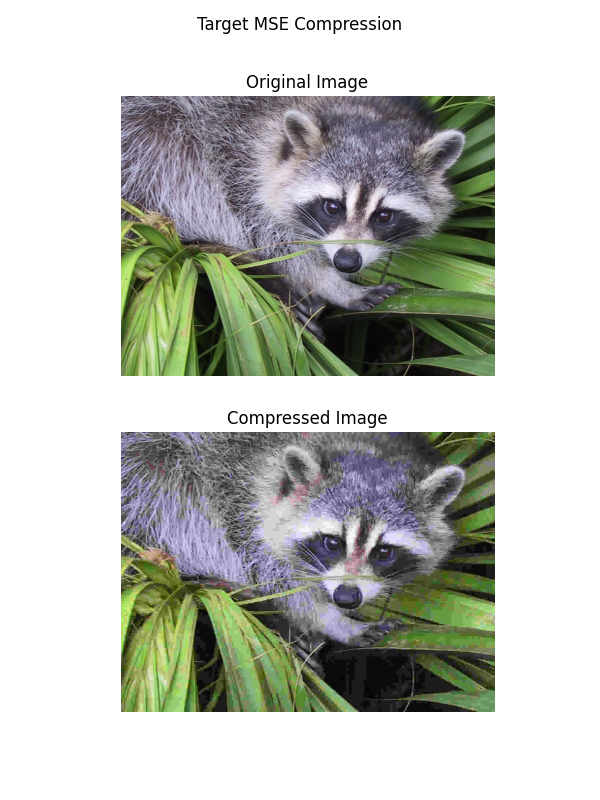
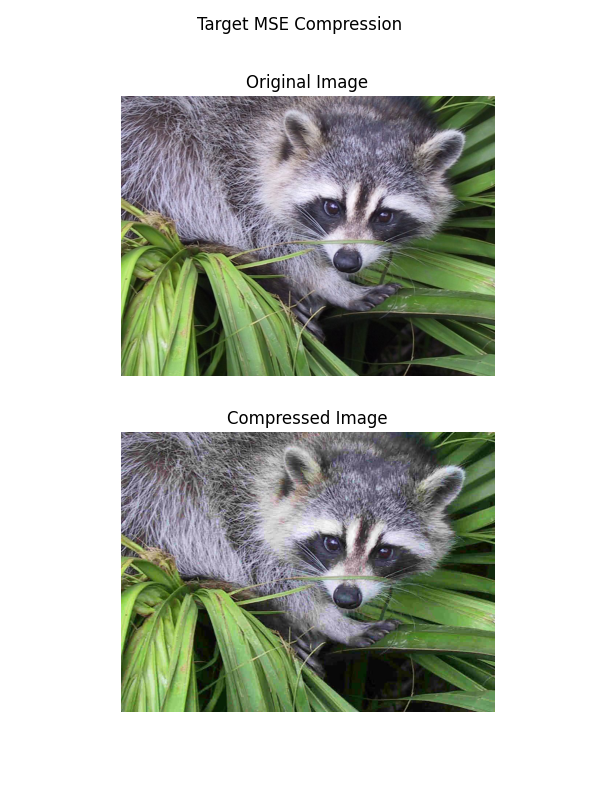
feat: fixed target mse algo, feat: added basic CLI

diff --git a/jpegzip/main.py b/jpegzip/main.py
@@ -1,16 +1,22 @@
+import argparse
 import logging
+from argparse import ArgumentParser
+from typing import Optional
 
+import numpy as np
 import scipy
 from skimage.metrics import mean_squared_error
 
 from jpegzip.compression.image_compression import ImageCompression
 from jpegzip.utils.plots import plot_compression
+from utils.file_system import load_image, save_image
 
 logger = logging.getLogger(__name__)
 
 
-def compress_raccoon() -> None:
-    image = scipy.datasets.face()
+def compress(image: Optional[np.ndarray] = None) -> np.ndarray:
+    if image is None:
+        image = scipy.datasets.face()
     compressed_image = ImageCompression.compress_rgb(image)
 
     plot_compression("RGB Image Compression", image, compressed_image)
@@ -18,12 +24,15 @@ def compress_raccoon() -> None:
     mse = mean_squared_error(image, compressed_image)
     logger.info(f"Mean Squared Error: {mse:.4f}")
 
+    return compressed_image
 
-def compress_raccoon_to_target_mse(target_mse: float | None = None) -> None:
+
+def compress_to_target_mse(target_mse: float | None = None, image: Optional[np.ndarray] = None) -> np.ndarray:
     if target_mse is None:
         raise ValueError("Target MSE must be specified and cannot be None. Please provide a valid value.")
 
-    image = scipy.datasets.face()
+    if image is None:
+        image = scipy.datasets.face()
     compressed_image = ImageCompression.compress_to_mse(image, target_mse=target_mse)
 
     plot_compression("Target MSE Compression", image, compressed_image)
@@ -31,11 +40,50 @@ def compress_raccoon_to_target_mse(target_mse: float | None = None) -> None:
     mse = mean_squared_error(image, compressed_image)
     logger.info(f" Target MSE: {target_mse:10.4f}, Obtained MSE: {mse:10.4f}")
 
+    return compressed_image
+
+
+def add_arguments(parser: ArgumentParser) -> ArgumentParser:
+    parser.add_argument("--load", type=str, help="Name of the image to load for compression from folder `input`.")
+
+    subparsers = parser.add_subparsers(dest="operation", help="Choose the compression operation.")
+
+    subparsers.add_parser("compress", help="Compress using the basic RGB compression.")
+    compress_to_target_mse_parser = subparsers.add_parser(
+        "compress-to-target-mse", help="Compress to a specified target MSE."
+    )
+    compress_to_target_mse_parser.add_argument(
+        "--target-mse", type=float, required=True, help="Target MSE for the compression."
+    )
+
+    return parser
+
 
 def main() -> None:
-    pass
+    parser = argparse.ArgumentParser(prog="JpegZIP", description="Image Compression CLI")
+    parser = add_arguments(parser)
+
+    args = parser.parse_args()
+
+    image = None
+    if args.load:
+        image = load_image(args.load)
+
+    compressed_image = None
+    if args.operation == "compress":
+        compressed_image = compress(image)
+    elif args.operation == "compress-to-target-mse":
+        compressed_image = compress_to_target_mse(args.target_mse, image)
+
+    image_name = None
+    if args.load:
+        image_name = f"{args.load.split('.')[0]}_compressed.{args.load.split('.')[1]}"
+    else:
+        image_name = "raccoon_compressed.png"
+
+    save_image(compressed_image, image_name)
 
 
 if __name__ == "__main__":
     logging.basicConfig(level=logging.INFO)
-    compress_raccoon_to_target_mse(300)
+    main()

diff --git a/jpegzip/compression/image_compression.py b/jpegzip/compression/image_compression.py
@@ -10,7 +10,8 @@ logger = logging.getLogger(__name__)
 
 class ImageCompression:
     MSE_TOLERANCE: float = 10.0
-    MAX_ITERATIONS: int = 15
+    MAX_ITERATIONS: int = 30
+    FACTOR_RATE: float = 0.5
 
     @staticmethod
     def compress_rgb(image: np.ndarray, q_factor: float = 1.0) -> np.ndarray:
@@ -59,9 +60,9 @@ class ImageCompression:
         cr_channel = image_ycbcr[:, :, 2] if image.ndim == 3 else None
 
         # fmt: off
-        y_channel_compressed = JPEGCompression.decode(JPEGCompression.encode(y_channel, q_method="luminance", q_factor=q_factor))
-        cb_channel_compressed = JPEGCompression.decode(JPEGCompression.encode(cb_channel, q_method="chroma", q_factor=q_factor)) if cb_channel is not None else None
-        cr_channel_compressed = JPEGCompression.decode(JPEGCompression.encode(cr_channel, q_method="chroma", q_factor=q_factor)) if cr_channel is not None else None
+        y_channel_compressed = JPEGCompression.decode(JPEGCompression.encode(y_channel, q_method="luminance", q_factor=q_factor), y_channel.shape)
+        cb_channel_compressed = JPEGCompression.decode(JPEGCompression.encode(cb_channel, q_method="chroma", q_factor=q_factor), cb_channel.shape) if cb_channel is not None else None
+        cr_channel_compressed = JPEGCompression.decode(JPEGCompression.encode(cr_channel, q_method="chroma", q_factor=q_factor), cr_channel.shape) if cr_channel is not None else None
         # fmt: on
 
         if image.ndim == 3:
@@ -111,8 +112,11 @@ class ImageCompression:
             compressed_image = ImageCompression.compress_rgb(image, q_factor=q_factor)
             mse = mean_squared_error(image, compressed_image)
 
-            logger.info(f" q_factor: {q_factor:10.4f}, mse: {mse:10.4f}")
-            q_factor: float = (q_factor * target_mse) / mse
+            logger.info(f" iteration: {iteration:2}, q_factor: {q_factor:10.4f}, mse: {mse:10.4f}")
+
+            q_factor_new: float = (q_factor * target_mse) / mse
+            step: float = q_factor_new - q_factor
+            q_factor = q_factor + step * ImageCompression.FACTOR_RATE
 
             if iteration > ImageCompression.MAX_ITERATIONS:
                 raise RuntimeError(

diff --git a/jpegzip/utils/file_system.py b/jpegzip/utils/file_system.py
@@ -1,0 +1,68 @@
+import logging
+import os
+
+import cv2 as cv
+import numpy as np
+
+logger = logging.getLogger(__name__)
+BASE_INPUT_DIR = os.path.join(os.getcwd(), "..", "input")
+BASE_OUTPUT_DIR = os.path.join(os.getcwd(), "..", "output")
+
+
+def load_image(name: str) -> np.ndarray:
+    """Load an image from `input` directory with the specified name.
+
+    Parameters
+    ----------
+    name : str
+        The name of the image file to load. The image file should be located
+        in the 'input' directory, relative to the current working directory.
+
+    Returns
+    -------
+    np.ndarray
+        The loaded image as a NumPy array in color format (RGB).
+
+    Raises
+    ------
+    Exception
+        If the image cannot be loaded, an error is logged, and the exception is raised.
+    """
+
+    path = os.path.join(BASE_INPUT_DIR, name)
+
+    try:
+        image = cv.imread(path, cv.IMREAD_COLOR)
+        image_rgb = cv.cvtColor(image, cv.COLOR_BGR2RGB)
+        return np.array(image_rgb)
+    except Exception as e:
+        logger.error(f"Error loading image with path {path}: {e}")
+        raise
+
+
+def save_image(image: np.ndarray, name: str) -> None:
+    """Save an image to the `input` directory with the specified name.
+
+    Parameters
+    ----------
+    image : np.ndarray
+        The image to save, as a NumPy array in color format (BGR).
+
+    name : str
+        The name of the file to save the image as. The image will be saved in the 'output' directory,
+        relative to the current working directory.
+
+    Raises
+    ------
+    Exception
+        If the image cannot be saved, an error is logged, and the exception is raised.
+    """
+
+    path = os.path.join(BASE_OUTPUT_DIR, name)
+
+    try:
+        image_bgr = cv.cvtColor(image, cv.COLOR_RGB2BGR)
+        cv.imwrite(path, image_bgr)
+    except Exception as e:
+        logger.error(f"Error writing image with path {path}: {e}")
+        raise

diff --git a/jpegzip/compression/jpeg_compression.py b/jpegzip/compression/jpeg_compression.py
@@ -117,7 +117,7 @@ class JPEGCompression:
         return y
 
     @staticmethod
-    def decode(image: np.ndarray) -> np.ndarray:
+    def decode(image: np.ndarray, shape: tuple[int, ...] | None = None) -> np.ndarray:
         """Decompresses an encoded image using JPEG-like decoding.
 
         The process includes block-wise IDCT, dequantization, and re-centering pixel values
@@ -128,6 +128,10 @@ class JPEGCompression:
         image : np.ndarray
             Encoded image represented as a 2D numpy array,
             containing quantized DCT coefficients.
+
+        shape :  (tuple[int, int]), Optional
+            The desired shape (width, height) to crop the decoded image to.
+            If set to None it will not crop the image.
 
         Returns
         -------
@@ -143,4 +147,14 @@ class JPEGCompression:
 
         y = ImageBlockProcessor.iblocks(y_idctn_blocks)
 
-        return y
+        if shape is None:
+            return y
+
+        height, width = image.shape
+        desired_height, desired_width = shape
+        height_crop = (height - desired_height) // 2
+        width_crop = (width - desired_width) // 2
+
+        y_cropped = y[height_crop : height_crop + desired_height, width_crop : width_crop + desired_width]
+
+        return y_cropped
